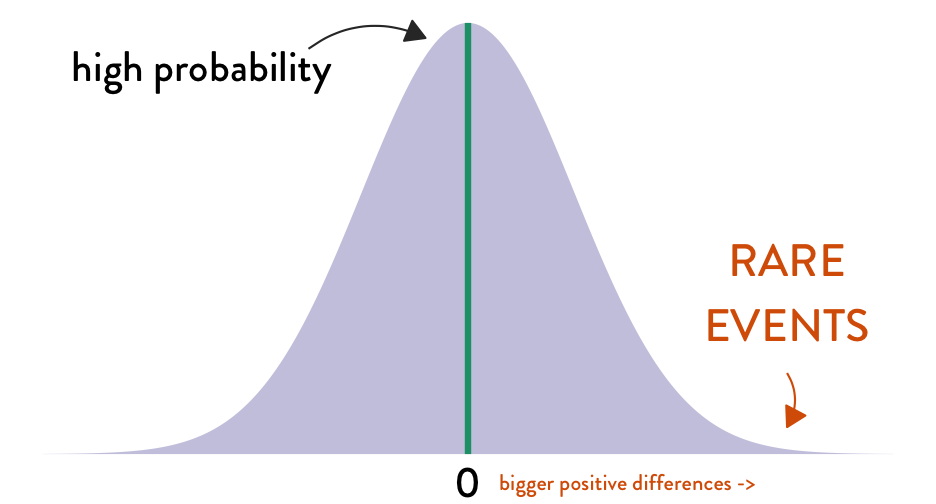
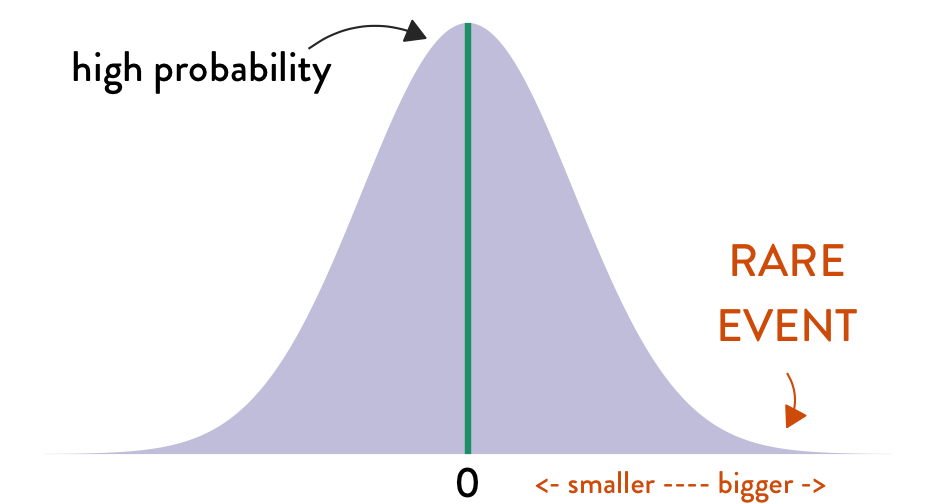
♻ - modify slides

Changed region(s): [[0.7436, 0.5952, 0.9295, 0.6845], [0.5267, 0.9226, 0.8985, 1.0]]

diff --git a/index.html b/index.html
@@ -34,7 +34,7 @@ class: center, middle, inverse, title-slide
 
 ???
 
-Let's imagine we want to more to Mars and grow crops and plants.
+Let's imagine we want to move to Mars and grow plants to sustain our life there.
 
 Given the predominant colour of Mars, we wonder whether the light of the planet will have an effect on plant growth.
 
@@ -52,7 +52,7 @@ Given the predominant colour of Mars, we wonder whether the light of the planet 
 
 ???
 
-So now we want to know if the colour of the light a plant is exposed to has an effect on the rate of growth of the plant.
+So we want to know if the colour of the light a plant is exposed to has an effect on the rate of growth of the plant.
 
 ---
 
@@ -68,7 +68,7 @@ So now we want to know if the colour of the light a plant is exposed to has an e
 
 ???
 
-So we run an experiment: a group of plants is exposed to red light and another group is exposed to blue light.
+To find that out, we run an experiment: a group of plants is exposed to red light (similar to the light on Mars) and another group is exposed to blue light (similar to the light on Earth).
 
 ---
 
@@ -84,7 +84,7 @@ So we run an experiment: a group of plants is exposed to red light and another g
 
 ???
 
-After a month of exposure, we measure the height of the plants in the two groups and we find that the plants exposed to the blue light are on average 2 cm taller than the plants exposed to the red light.
+After a month, we measure the height of the plants in the two groups and we find that the plants exposed to the blue light are on average 2 cm taller than the plants exposed to the red light.
 
 ---
 
@@ -114,9 +114,9 @@ class: center middle
 
 Let's step back a moment.
 
-In this experiment we got a result of +2cm (plants exposed to blue light were 2 cm taller than plants exposed to red light).
+In this experiment we got a result of +2 cm (plants exposed to blue light were 2 cm taller than plants exposed to red light).
 
-But this is just ONE experiment of many.
+But this is just ONE experiment of infinite number of possible experiments.
 
 ---
 
@@ -126,7 +126,7 @@ class: center middle
 
 ???
 
-So, now we want to know whether the result we observed in this one experiment would be observed again if we ran many more identical experiments.
+We want to know whether the result we observed in this one experiment would be observed again if we ran many more identical experiments.
 
 ---
 
@@ -136,9 +136,11 @@ class: center middle
 
 ???
 
-We want to know this because it is possible that, although we observed a difference of +2 cm in this experiment, we might have observed no difference (i.e. difference = 0 cm) in any other repetition of the experiment.
+We want to know this because it is possible that, although we observed a difference of +2 cm in THIS experiment, we might have observed no difference (i.e. difference = 0 cm) in any OTHER repetition of the experiment.
 
 And we don't want this to happen! (We don't want to find a difference of +2 cm while in fact there is no difference)
+
+So this is what we do.
 
 ---
 
@@ -148,11 +150,9 @@ class: center middle
 
 ???
 
-So this is what we do.
+We assume that there is in fact no difference (i.e. colour of light does NOT affect plant growth).
 
-We assume that indeed there is in fact no difference (i.e. colour of light does NOT affect plant growth).
-
-This is call the NULL HYPOTHESIS and we assume that it is true.
+This is called the NULL HYPOTHESIS and we assume that it is true.
 
 ---
 
@@ -162,9 +162,9 @@ class: center middle
 
 ???
 
-If the null hypothesis is true, then observing no difference between plants exposed to red or blue light is very probable, i.e. observing no difference has high probability.
+If the null hypothesis is true, then we can expect that observing no difference between plants exposed to red or blue light is very probable, i.e. observing no difference has high probability.
 
-On the other hand, observing differences that are further away from 0 (in the positive and negative side) is very unlikely (it has very low probability of occurring).
+On the other hand, observing differences that are further away from 0 is very unlikely (it has very low probability of occurring).
 
 ---
 
@@ -174,11 +174,9 @@ class: center middle
 
 ???
 
-In other words, if it is true that there is no difference, observing big differences should be a rare event.
+In other words, if it is true that there is no difference in growth between plants exposed to red light and those exposed to blue light, then observing big differences should be a rare event.
 
-So, a `\(p\)`-value is the probability of finding a certain difference or an even bigger difference even though there is in fact no difference (i.e. the null hypothesis is true).
-
-We want that probability to be as low as possible.
+Now, the `\(p\)`-value is the probability of finding a certain difference or an even bigger difference even though there is in fact no difference between groups (i.e. when assuming the null hypothesis is true).
 
 ---
 
@@ -189,11 +187,33 @@ class: center middle
 
 ???
 
-The probability of finding a difference of +2 cm or an even bigger difference when in fact there is no difference is 0.03, in other words observing a +2 cm difference or a bigger difference has 3% probability of occurring if the null hypothesis is true.
+In our plant experiment, we observed a 2 cm increase in plant growth if the light was blue.
 
-In principle, we want that probability to be as low as possible, but in practice?
+The `\(p\)`-value was 0.03.
 
-We will talk about this and other aspects of p-values in our next class!
+This means that, assuming that in fact there is no difference, the probability of finding a difference of +2 cm or a bigger difference is 0.03.
+
+---
+
+class: center middle
+
+![](index_files/figure-html/p-value-2-1.png)&lt;!-- --&gt;
+
+???
+
+In other words, observing a +2 cm difference or a bigger difference has 3% probability of occurring if the null hypothesis is true.
+
+---
+
+class: center middle
+
+![](img/nhst-blue-houses.png)
+
+???
+
+So, do we need to install blue lights in green houses on Mars?
+
+In our next class we will see how to use the p-value to make up our minds!
     </textarea>
 <style data-target="print-only">@media screen {.remark-slide-container{display:block;}.remark-slide-scaler{box-shadow:none;}}</style>
 <script src="https://remarkjs.com/downloads/remark-latest.min.js"></script>
